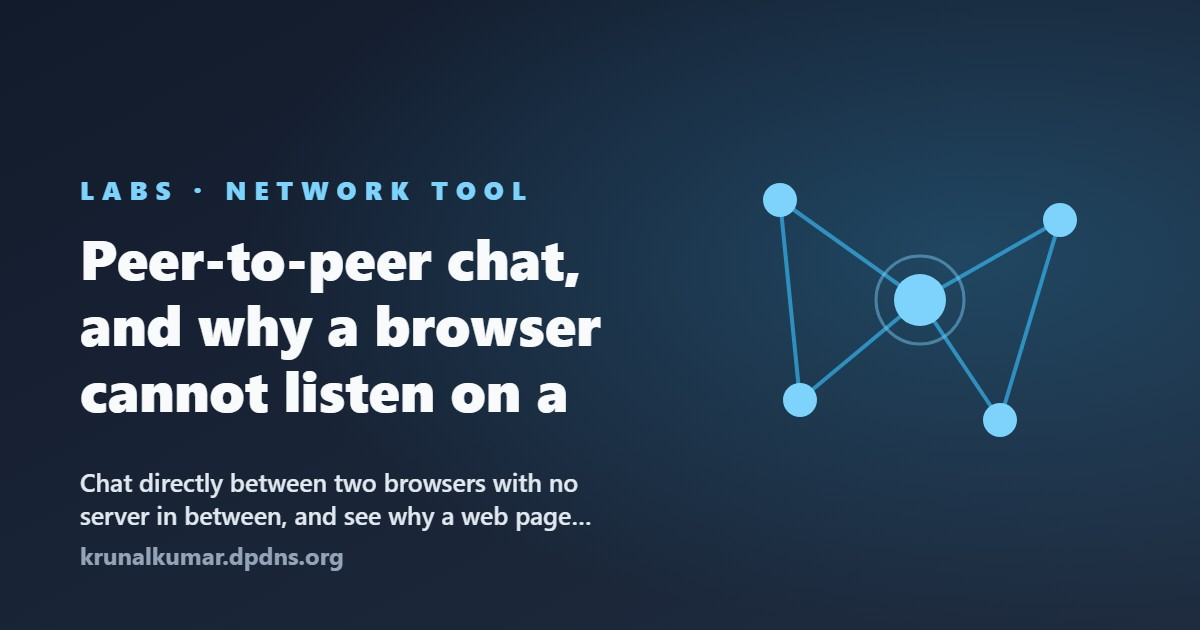
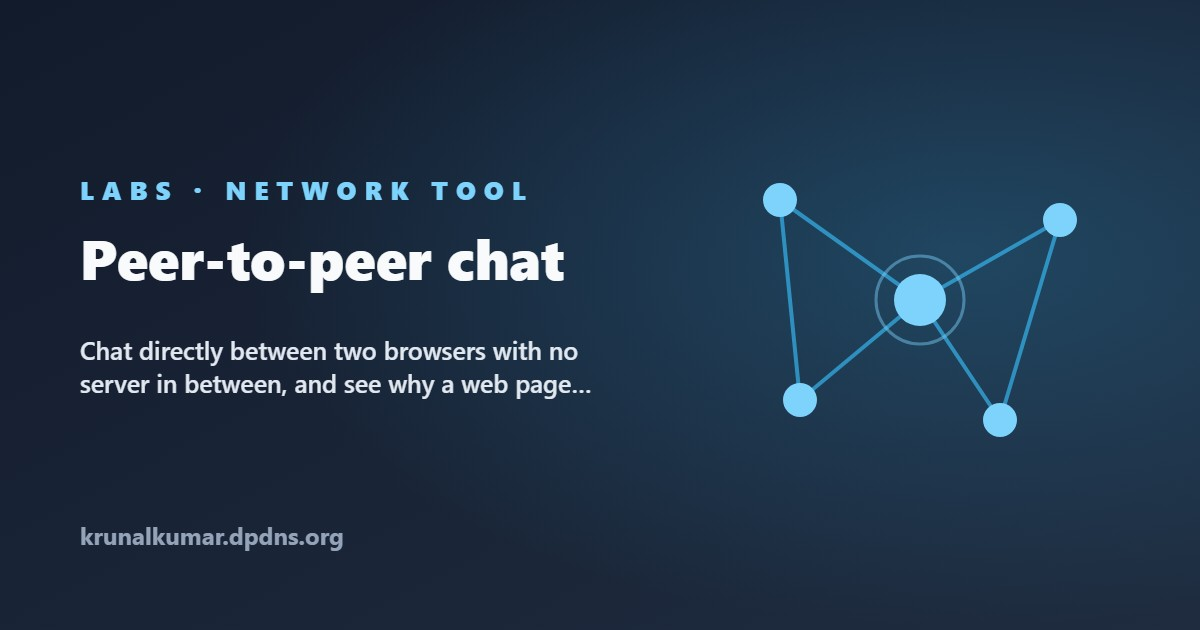
Stop lab share-card titles being cut mid-sentence

Changed region(s): [[0.0617, 0.4825, 0.4933, 0.6635], [0.0617, 0.754, 0.4933, 0.9048], [0.4625, 0.4222, 0.4933, 0.4524]]

diff --git a/scripts/og-cards.js b/scripts/og-cards.js
@@ -503,8 +503,33 @@ const CATEGORY_EYEBROW = {
 /* Titles are set at 56px in a 1200px card with the motif taking the right
    half, so a line longer than this overruns the artwork. Broken on spaces,
    never mid-word. */
-function wrapTitle(title, max) {
-  const words = String(title).split(/\s+/);
+/* HTML entities decoded BEFORE escaping. The manifest is written for HTML
+   and uses &mdash;, &middot; and friends; an SVG is XML, which defines only
+   amp, lt, gt, quot and apos, so anything else makes the document
+   unparseable. Chromium then fails the image load silently and the card is
+   simply skipped — which is how four games came out with no card at all
+   while the run reported success. */
+const ENTITIES = {
+  mdash: '—', ndash: '–', middot: '·', hellip: '…',
+  rsquo: '’', lsquo: '‘', rdquo: '”', ldquo: '“',
+  nbsp: ' ', times: '×', amp: '&', lt: '<', gt: '>', quot: '"',
+};
+const deEntity = (s) =>
+  String(s)
+    .replace(/&#(\d+);/g, (m, d) => String.fromCharCode(Number(d)))
+    .replace(/&([a-z]+);/gi, (m, k) => (k.toLowerCase() in ENTITIES ? ENTITIES[k.toLowerCase()] : m));
+
+const esc = (s) =>
+  deEntity(s).replace(/&/g, '&amp;').replace(/</g, '&lt;').replace(/>/g, '&gt;');
+
+/* Every line, uncapped. Kept separate from wrapTitle because a caller that
+   wants to KNOW whether a title overflows cannot find out from a function that
+   has already thrown the overflow away. */
+function wrapAll(title, max) {
+  /* Decoded first. "&amp;" is five characters in the source and one on the
+     card, so measuring the raw string spends the line budget on text nobody
+     sees and breaks the line in the wrong place. */
+  const words = deEntity(String(title)).split(/\s+/);
   const out = [];
   let line = '';
   words.forEach((w) => {
@@ -513,12 +538,16 @@ function wrapTitle(title, max) {
     else { line = next; }
   });
   if (line) out.push(line);
+  return out;
+}
+
+function wrapTitle(title, max) {
   /* Three lines, not two. Two was enough for game names ("Snake", "Air
      hockey") but the labs have real sentences for titles — "A real BSD shell,
      running in your browser" came out as "…running in your", which reads as a
      bug rather than as a title. The subtitle and footer are positioned from
      lines.length, so a third line pushes them down rather than colliding. */
-  return out.slice(0, 3);
+  return wrapAll(title, max).slice(0, 3);
 }
 
 /* ---------------------------------------------------------------------------
@@ -610,6 +639,35 @@ function firstSentence(text, max) {
   return (sp > 0 ? cut.slice(0, sp) : cut).trim() + '…';
 }
 
+/* wrapTitle keeps three lines and silently discards the rest, which on two of
+   the labs meant a share card reading "Peer-to-peer chat, and why a browser
+   cannot listen on a" — stopping mid-sentence with nothing to say it had. A
+   title too long for the card is cut at its first clause boundary instead, so
+   what remains is a phrase rather than a fragment; if there is no boundary to
+   cut at, the ellipsis at least admits to the cut. */
+function cardTitle(title, max, fallback) {
+  const full = wrapAll(title, max);
+  if (full.length <= 3) return full;
+
+  // 1. cut at the first clause boundary, so what is left is a phrase
+  for (const mark of [' — ', ' – ', ': ', ', ', '; ']) {
+    const at = title.indexOf(mark);
+    if (at > 0) {
+      const head = title.slice(0, at).trim();
+      if (head && wrapAll(head, max).length <= 3) return wrapAll(head, max);
+    }
+  }
+  // 2. the page's own <title>, which is written to be short
+  if (fallback) {
+    const alt = wrapAll(fallback, max);
+    if (alt.length <= 3) return alt;
+  }
+  // 3. give up, but say so
+  const kept = full.slice(0, 3);
+  kept[2] = kept[2].replace(/[\s,;:]+$/, '') + '…';
+  return kept;
+}
+
 function labCards() {
   const dir = path.join(ROOT, 'labs');
   let files = [];
@@ -647,6 +705,10 @@ function labCards() {
     const desc = (html.match(/name="description"\s+content="([^"]*)"/) || [])[1] || '';
     const strip = (s) => String(s).replace(/<[^>]*>/g, ' ').replace(/\s+/g, ' ').trim();
     const kind = LAB_KIND[slug] || ['labCode', 'Free tool'];
+    /* The <title> without the site suffix: written to fit a browser tab, so it
+       is the natural second choice when the <h1> is a whole sentence. */
+    const rawTitle = (html.match(/<title>([\s\S]*?)<\/title>/) || [])[1] || '';
+    const shortTitle = strip(rawTitle).replace(/\s*[|—-]\s*Krunalkumar Shah\s*$/, '').trim();
 
     cards.push({
       id: 'lab-' + slug,
@@ -657,7 +719,7 @@ function labCards() {
          ("Password strength checker and generator") rather than a name, so it
          actually reaches the limit — and at 56px a 22-character line runs to
          about x=740, into the motif box that starts at 690. */
-      lines: wrapTitle(strip(h1), 20),
+      lines: cardTitle(strip(h1), 20, shortTitle),
       sub: firstSentence(strip(desc) || "Runs in your browser. Free, no sign-up.", 88),
     });
   });
@@ -724,24 +786,6 @@ const CARDS = [
 ].concat(labCards(), gameCards());
 
 
-/* HTML entities decoded BEFORE escaping. The manifest is written for HTML
-   and uses &mdash;, &middot; and friends; an SVG is XML, which defines only
-   amp, lt, gt, quot and apos, so anything else makes the document
-   unparseable. Chromium then fails the image load silently and the card is
-   simply skipped — which is how four games came out with no card at all
-   while the run reported success. */
-const ENTITIES = {
-  mdash: '—', ndash: '–', middot: '·', hellip: '…',
-  rsquo: '’', lsquo: '‘', rdquo: '”', ldquo: '“',
-  nbsp: ' ', times: '×', amp: '&', lt: '<', gt: '>', quot: '"',
-};
-const deEntity = (s) =>
-  String(s)
-    .replace(/&#(\d+);/g, (m, d) => String.fromCharCode(Number(d)))
-    .replace(/&([a-z]+);/gi, (m, k) => (k.toLowerCase() in ENTITIES ? ENTITIES[k.toLowerCase()] : m));
-
-const esc = (s) =>
-  deEntity(s).replace(/&/g, '&amp;').replace(/</g, '&lt;').replace(/>/g, '&gt;');
 
 function svg(card) {
   const lines = card.lines;
